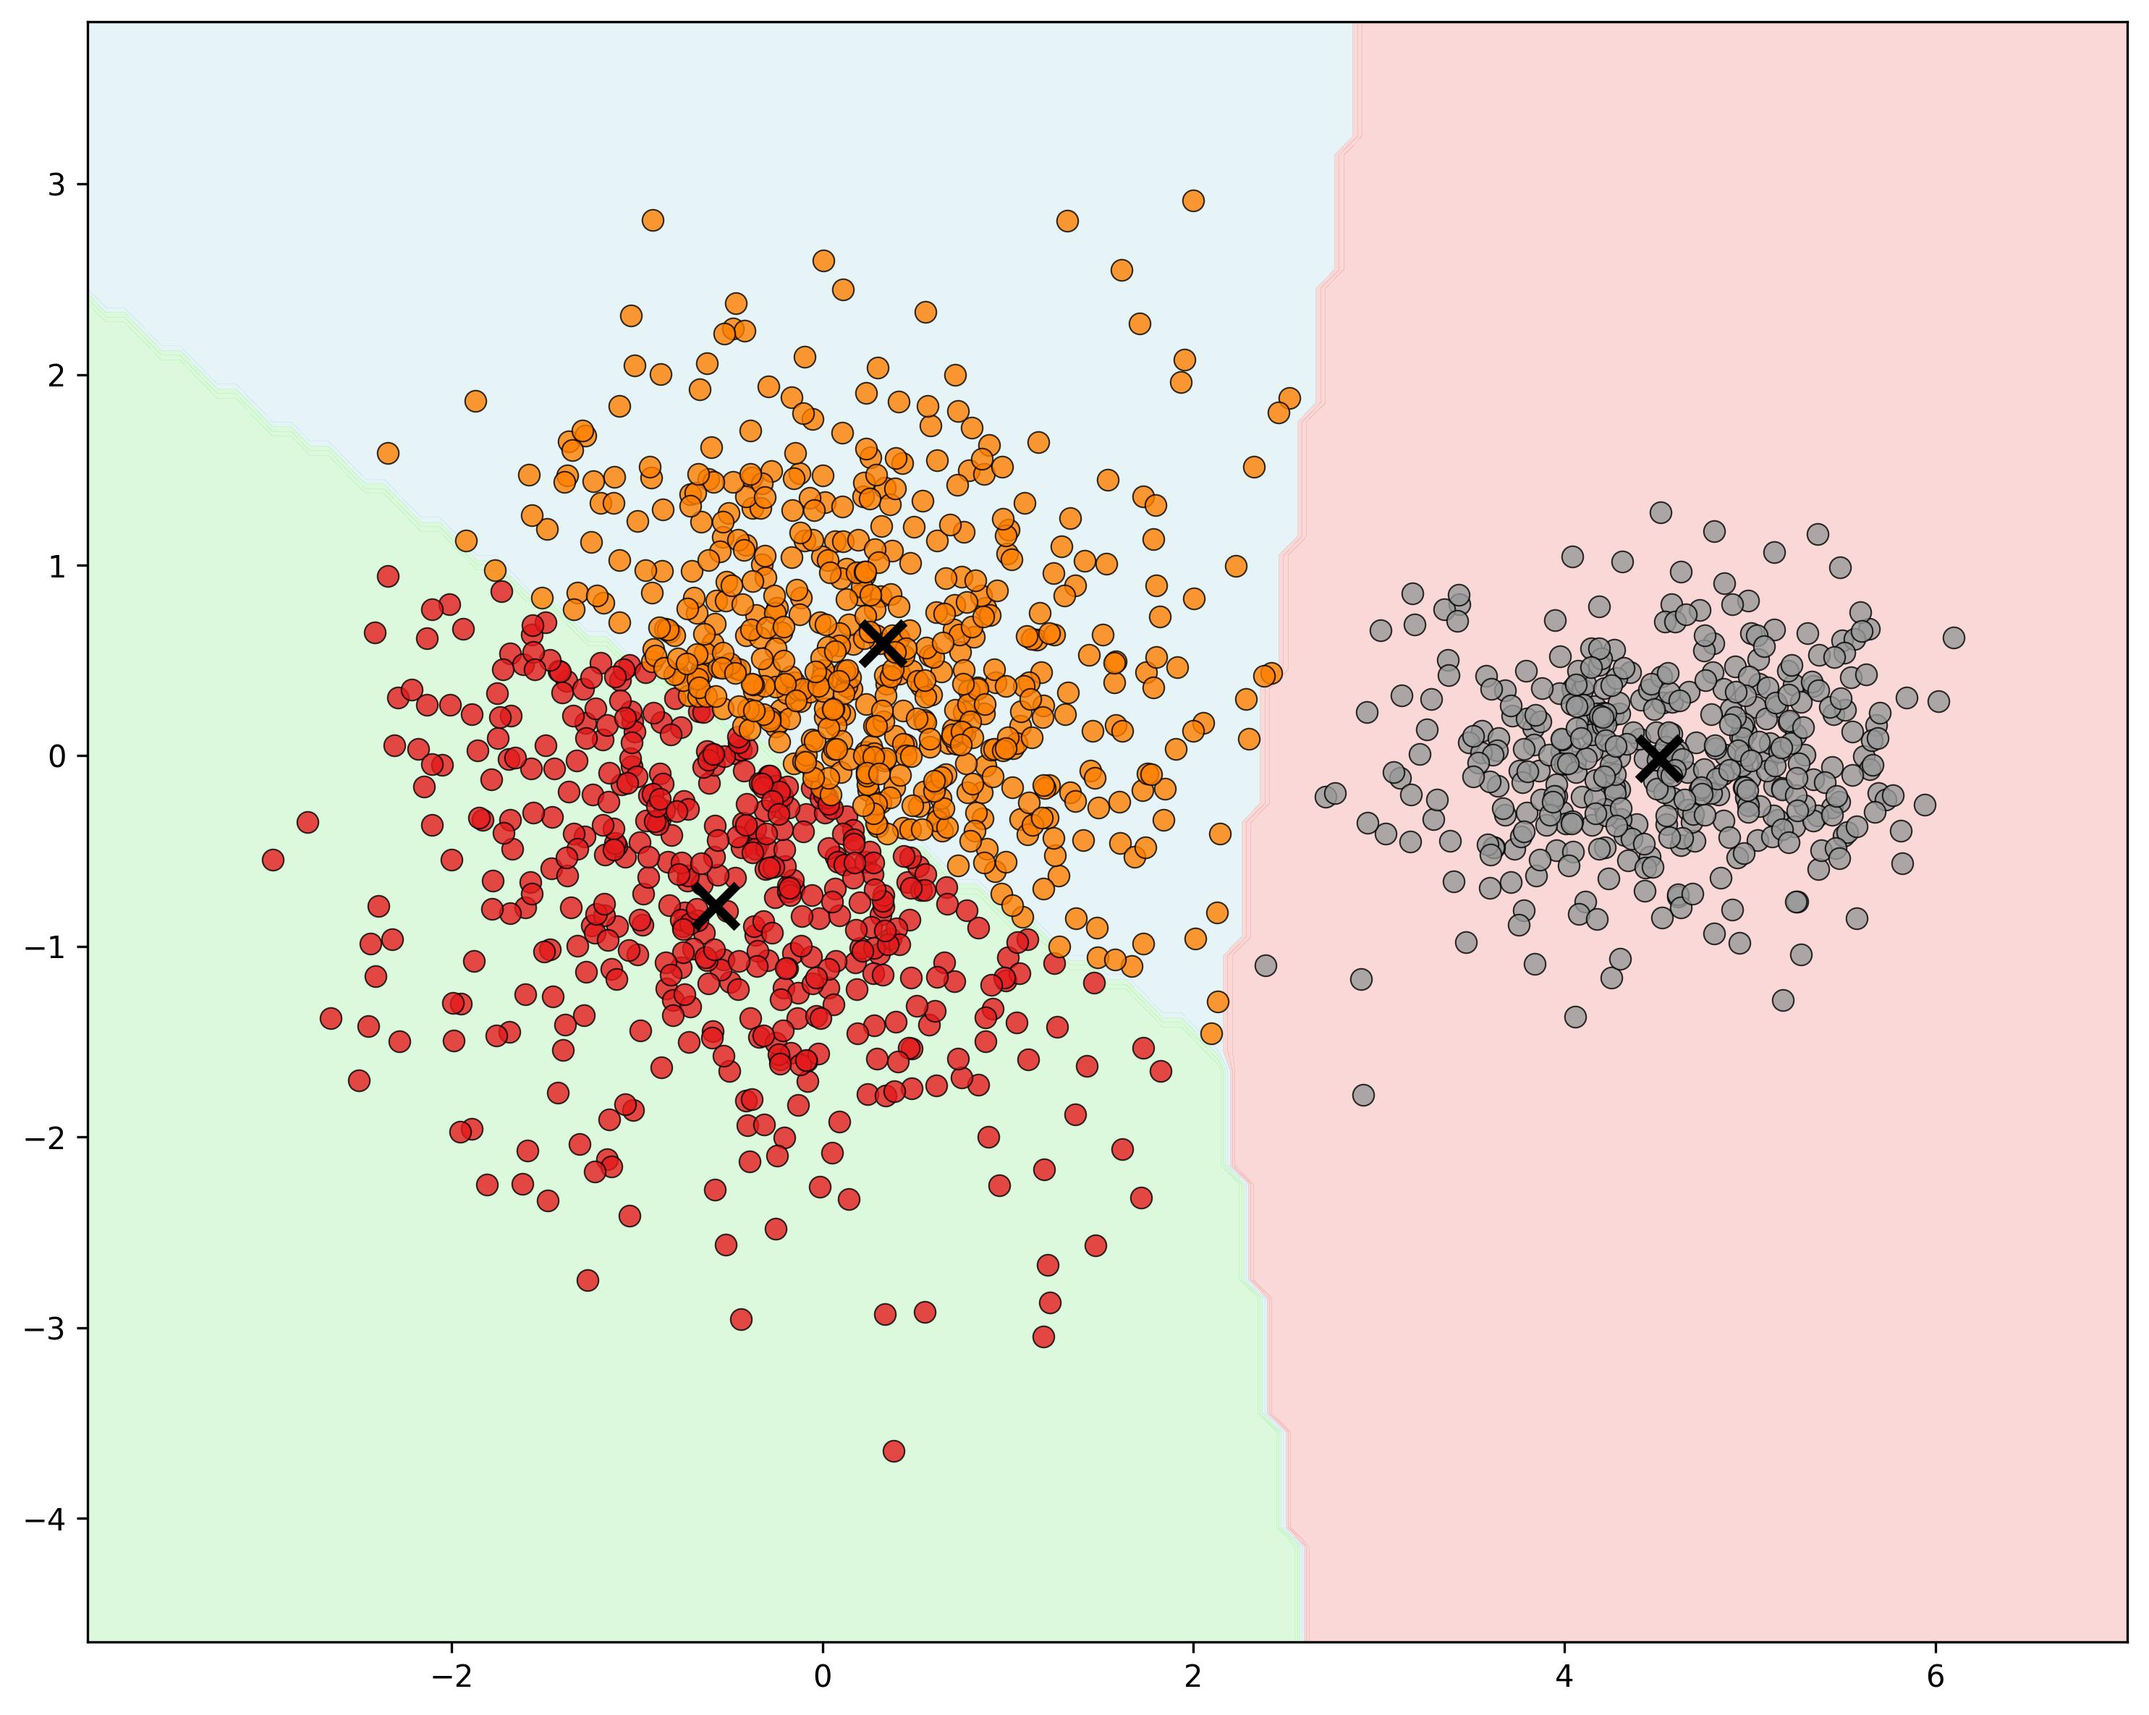
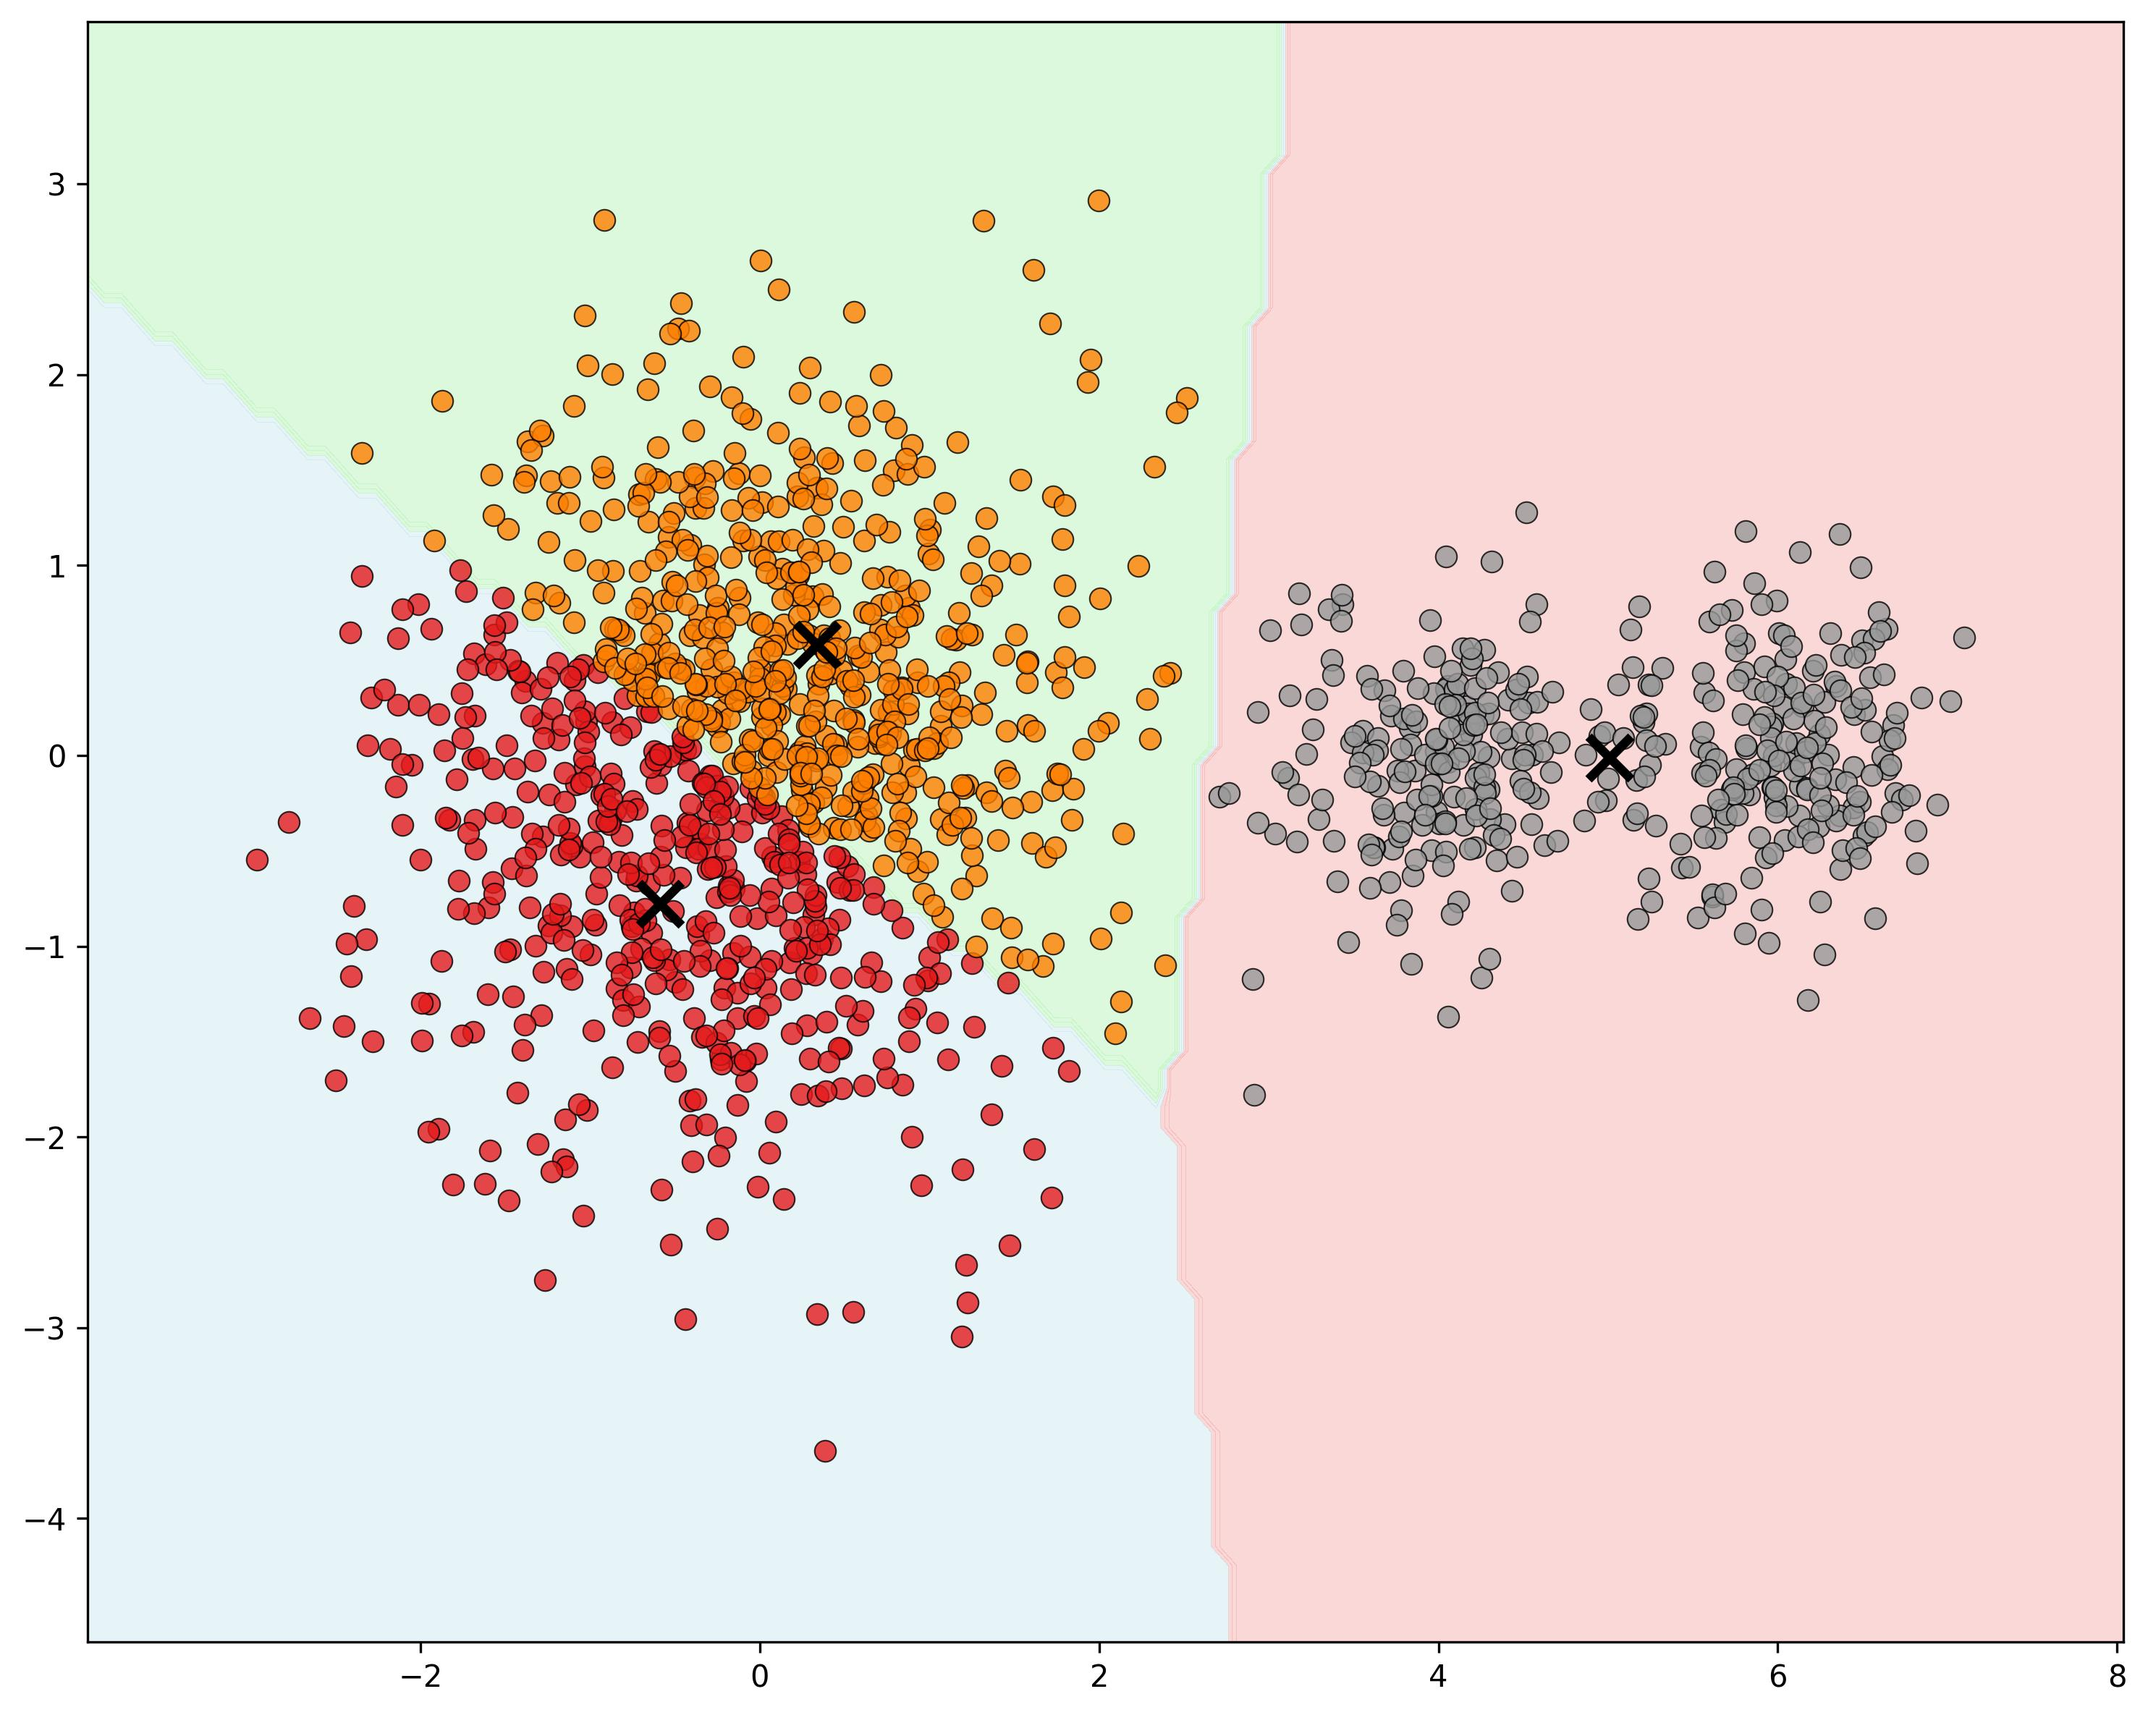
imbalanced

diff --git a/kmeans/dataset_construction/imbalanced.py b/kmeans/dataset_construction/imbalanced.py
@@ -15,7 +15,7 @@ data1 = rng.multivariate_normal([0, 0], 1.0 * np.eye(2), 1000)
 data2 = rng.multivariate_normal([4, 0], 0.2 * np.eye(2), 200)
 
 # 类3：小球，中心在 [5, 0]，与类2 靠近但分离
-data3 = rng.multivariate_normal([5, 0], 0.2 * np.eye(2), 200)
+data3 = rng.multivariate_normal([6, 0], 0.2 * np.eye(2), 200)
 
 # 合并数据和标签
 data = np.vstack([data1, data2, data3])
